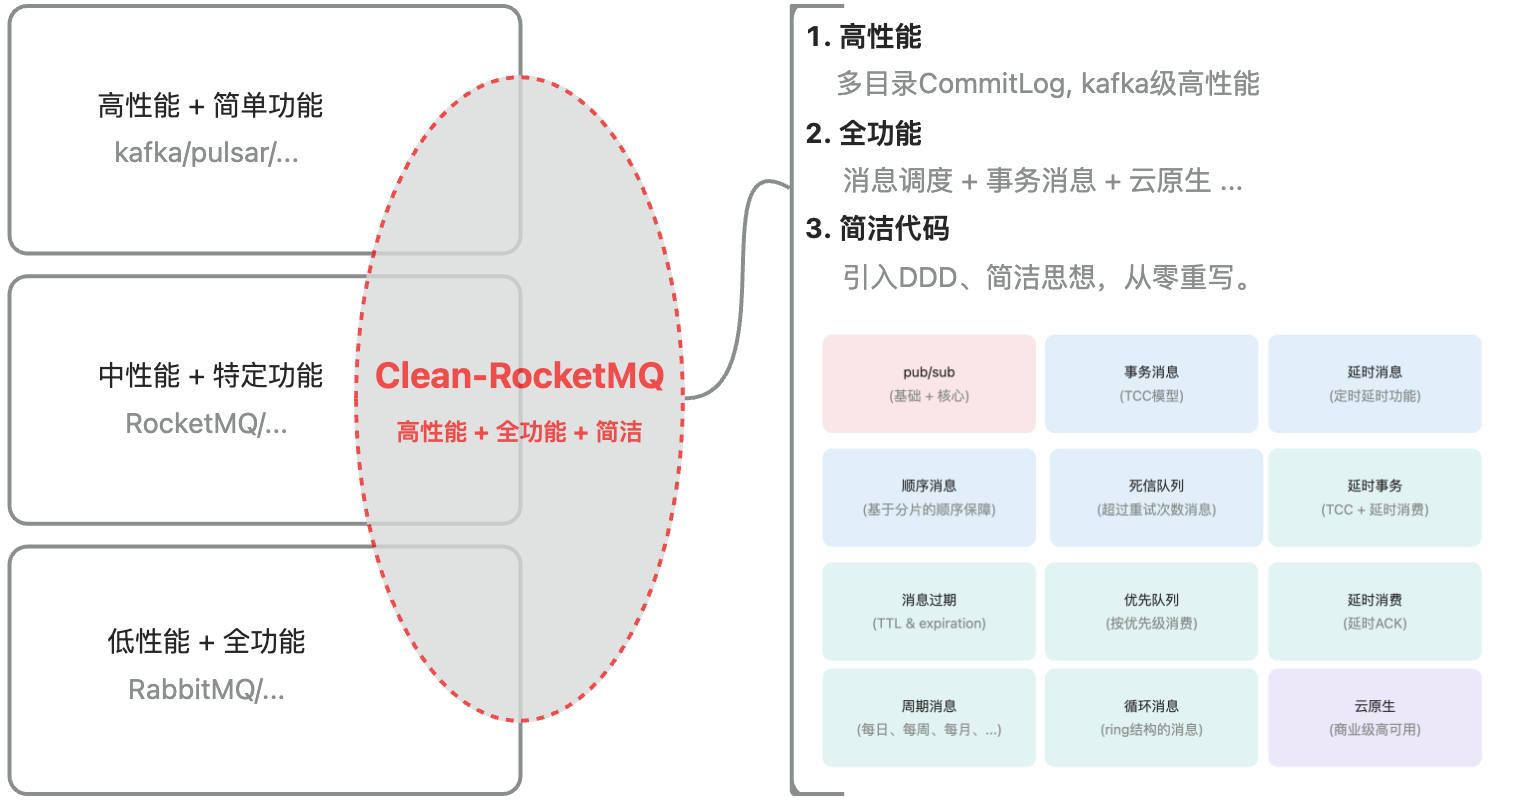
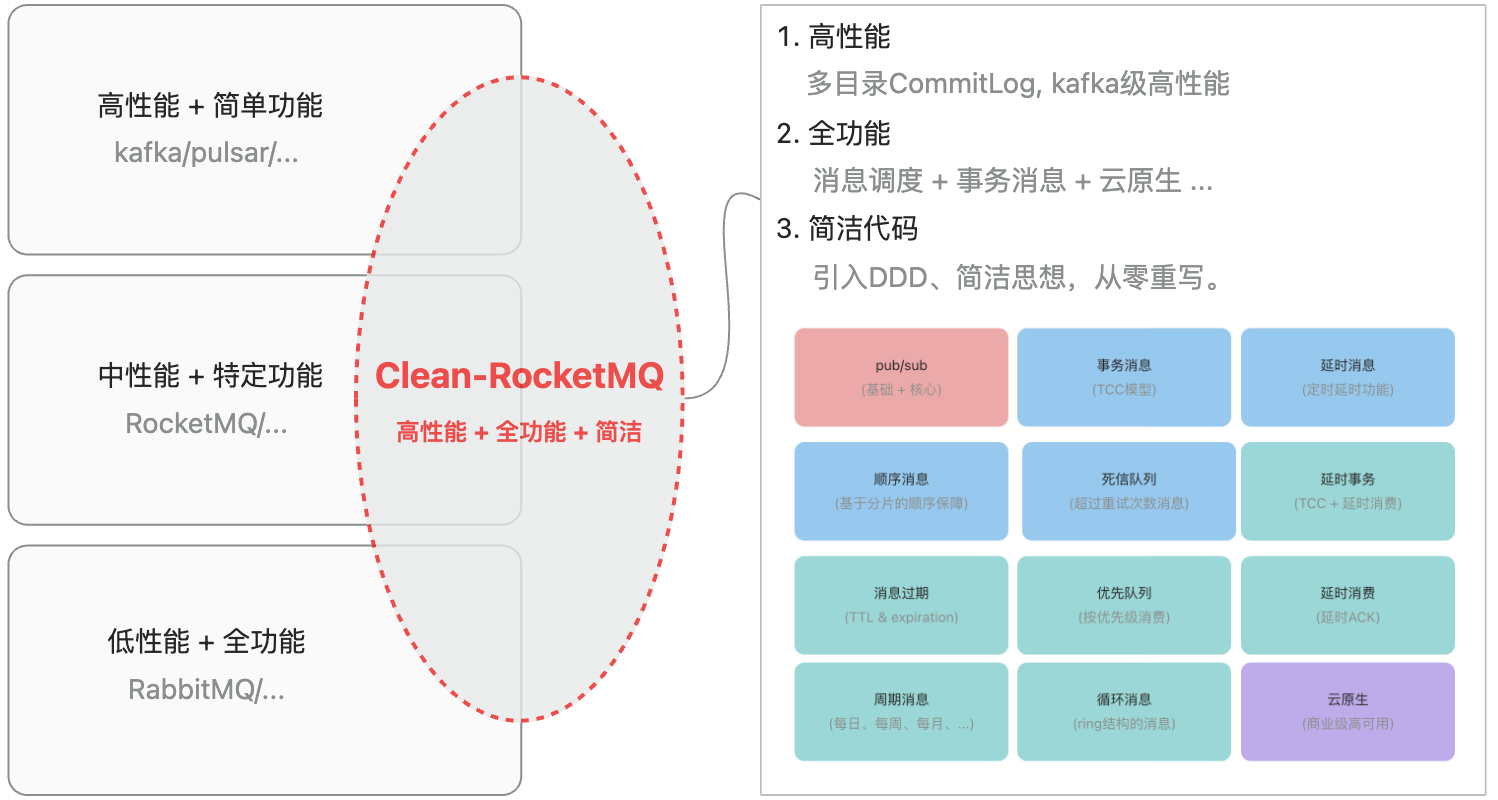
docs: update next generation mq diagram

diff --git a/README.md b/README.md
@@ -4,9 +4,9 @@ Clean-RocketMQ是下一代RocketMQ，从零重写。
 <img src="/docs/architecture/next-generation-mq.jpg" width="600" alt="架构" />
 
 ### Clean-RocketMQ特征:
-1. **更简洁的代码：** 借鉴DDD、简洁架构思想，从零重写。
-2. **更好的性能：** 高性能模式比肩Kafka(Mac下2~5倍的pub性能提升).
-3. **更全的功能：** 存算分离、更多事务、调度相关功能、云原生、...
+1. **简洁代码：** 借鉴DDD、简洁架构思想，从零重写。
+2. **更高性能：** 高性能模式比肩Kafka(Mac下2~5倍的pub性能提升).
+3. **更全功能：** 存算分离、更多事务、调度相关功能、云原生、...
 
 ## Why Rewrite?
 首先，参与了1000多天的重构后，才开始重写。<br />
